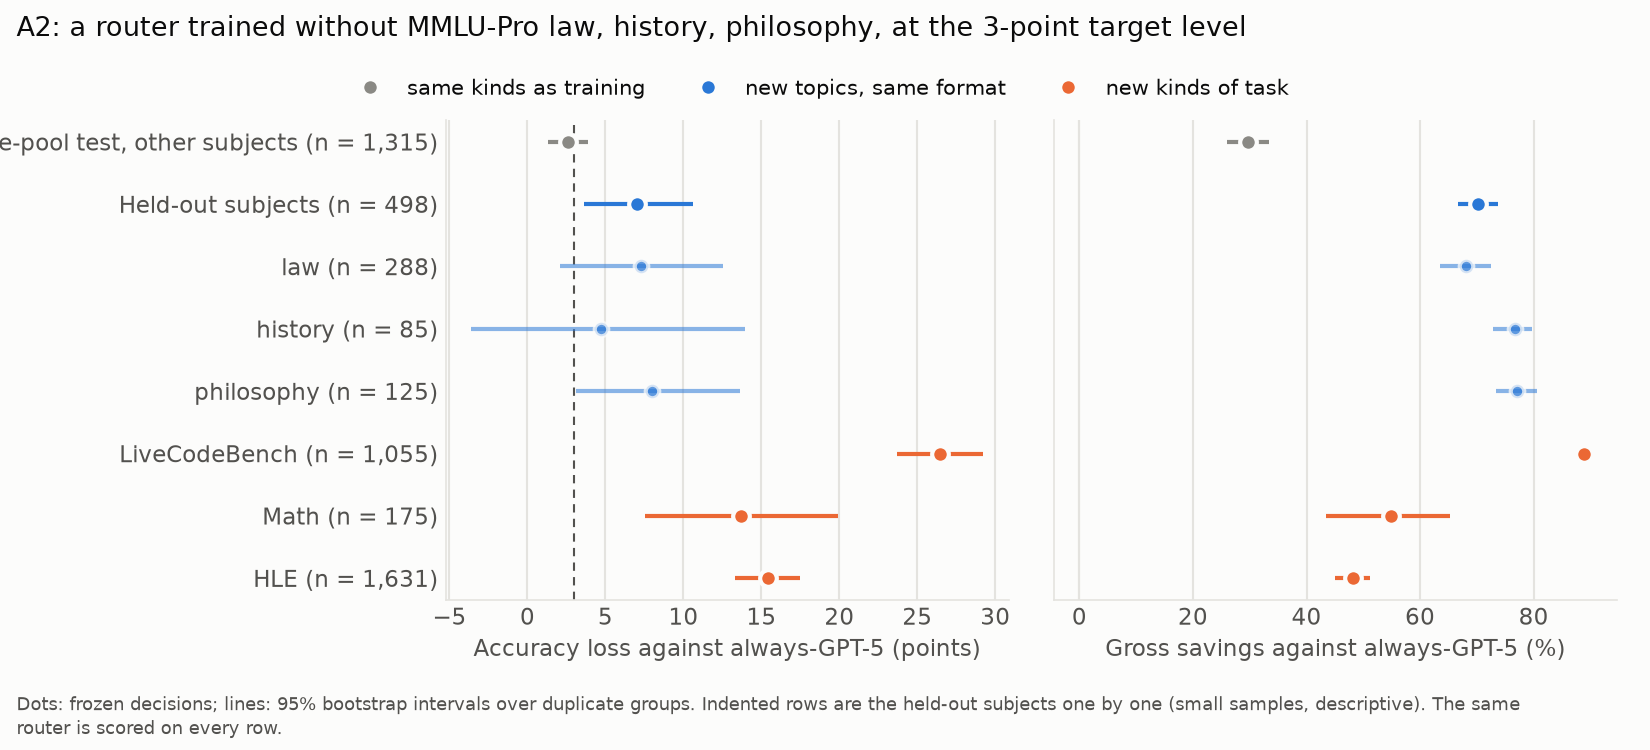
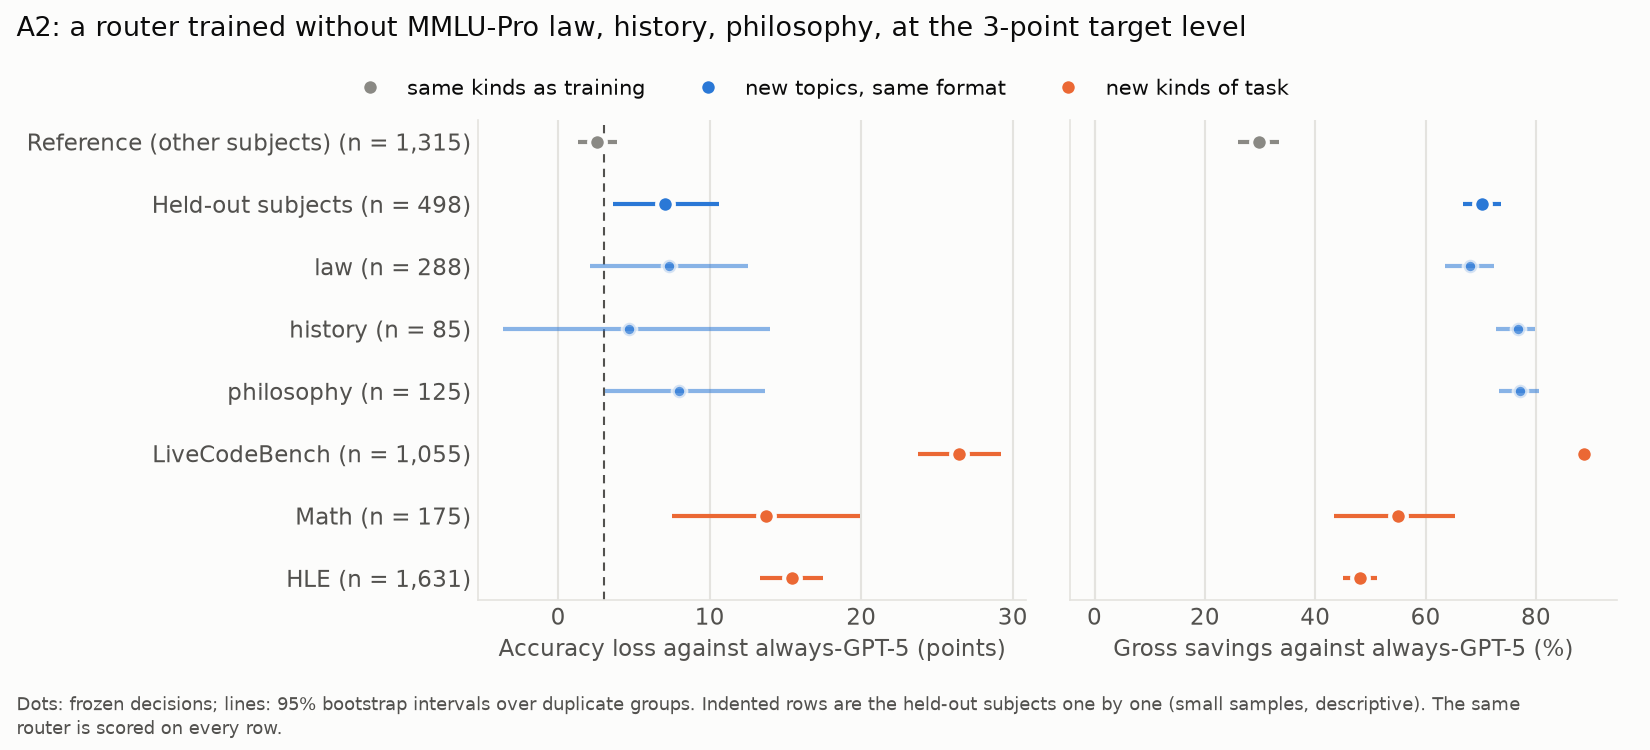
tighten rq2 write-up, fix figure labels

diff --git a/rq2/report_rq2.py b/rq2/report_rq2.py
@@ -45,7 +45,7 @@ SET_NAMES = {
     REF2: "Source-pool test without the held-out subjects (reference)" if not DRY else "Rehearsal reference without the stand-in subjects",
     "held_out_subjects": f"Held-out MMLU-Pro subjects ({SUBJ})",
 }
-SHORT = {**SET_NAMES, "source_pool_locked_test": "Source-pool test", REF2: "Source-pool test, other subjects" if not DRY else "Rehearsal reference",
+SHORT = {**SET_NAMES, "source_pool_locked_test": "Source-pool test", REF2: "Reference (other subjects)" if not DRY else "Rehearsal reference",
          "held_out_subjects": "Held-out subjects", "code": "LiveCodeBench", "math": "Math", "pseudo_reference": "Rehearsal reference",
          "gpqa_as_holdout": "GPQA (rehearsal)"}
 TAG = "DEVELOPMENT REHEARSAL, not a result" if DRY else ""
@@ -356,7 +356,7 @@ handles = [Line2D([], [], marker="o", ls="", ms=8, color=c, mec=SURFACE, mew=2, 
            ((NEUTRAL, "same kinds as training"), (BLUE, "new topics, same format"), (ORANGE, "new kinds of task"))]
 fig.legend(handles=handles, loc="upper left", bbox_to_anchor=(0.2, 0.92), ncol=3, frameon=False, fontsize=10)
 fig.suptitle(f"A2: a router trained without MMLU-Pro {SUBJ}, at the {PA}-point target level", x=0.01, ha="left", fontsize=13, color=INK)
-fig.subplots_adjust(left=0.27, right=0.98, top=0.84, bottom=0.2, wspace=0.08)
+fig.subplots_adjust(left=0.29, right=0.98, top=0.84, bottom=0.2, wspace=0.08)
 footer(fig, "Dots: frozen decisions; lines: 95% bootstrap intervals over duplicate groups. Indented rows are the held-out subjects one "
             "by one (small samples, descriptive). The same router is scored on every row.")
 fig.savefig(OUT / "fig3_rq2_near_far.png", dpi=150); plt.close(fig)

diff --git a/docs/RQ2_RESULTS.md b/docs/RQ2_RESULTS.md
@@ -29,18 +29,22 @@ statistics, settings chosen in the source-pool development run. The full tables 
     −0.03, while GPT-5's real edge on LiveCodeBench is 26 points, the largest of any set. So
     every coding question falls below even the 0-point cutoff.
   - *Order:* within each new set, the predicted gains do not pick out the questions only
-    GPT-5 gets right (AUC 0.49 coding, 0.53 math, 0.49 HLE, against 0.64 on the source test).
-    So even a cutoff re-tuned in hindsight on the coding questions' own answers would save
-    only 12.8% at the 3-point target.
+    GPT-5 gets right. The AUC is about 0.5, which is chance (0.49 coding, 0.53 math,
+    0.49 HLE). On HLE, 96% of within-benchmark shuffles were at least as accurate as the
+    router; on the source test at 3 points, only 0.2% were. So even a cutoff re-tuned in
+    hindsight on the coding questions' own answers would save only 12.8% at the 3-point
+    target.
 - **A router that had seen the benchmark does not fail this way.** On the same 211 coding
   test questions, the RQ1 router (trained with LiveCodeBench) sent none to Flash and lost
   nothing. The transfer router lost 27.49 points more (21.33 to 33.65).
-- **New topics (A2) hurt far less than new kinds of task, and part of it is not about the
-  topics being new.**
+- **New topics (A2) hurt too, but far less than new kinds of task.**
   - A router trained without MMLU-Pro law, history and philosophy lost 7.03 points (3.61 to
-    10.59) on those subjects at the 3-point target, against 26.45 on coding.
-  - A router that was trained with those subjects did no better on their 91 test questions
-    (3.30 points lost by each).
+    10.59) on those subjects at the 3-point target. That is 4.44 points more than on its
+    reference (0.76 to 8.22), and 19.42 fewer than on coding (14.95 to 23.71).
+  - Part of that loss may come from the mix rather than from the topics being new. GPT-5's
+    edge on these subjects is small, so a cutoff tuned on the source mix sends most of
+    them to Flash. A 91-question check against a router trained with them is too small to
+    separate the two explanations.
 - **Why coding goes to Flash** (a post-hoc check that reads prompts only):
   - In training, long prompts were mostly MMLU-Pro, where GPT-5's edge is small (6 points;
     median 127 words). SimpleQA's one-sentence questions carry an 18-point edge.
@@ -114,7 +118,7 @@ outcomes. It is not achievable without those labels and is never the router's re
 shows whether a miss comes from where the cutoff sits or from how the router orders the
 questions.
 
-| Set | Mean predicted gain | Real mean advantage | AUC, only-GPT-5-right questions | Frozen cutoff at 3 pp: sent / saved / lost | Hindsight cutoff at 3 pp: sent / saved / lost |
+| Set | Mean predicted gain | Real mean advantage | AUC, only-GPT-5-right questions (0.5 = chance) | Frozen cutoff at 3 pp: sent / saved / lost | Hindsight cutoff at 3 pp: sent / saved / lost |
 |---|---:|---:|---:|---:|---:|
 | Source-pool test | 0.138 | 0.146 | 0.643 | 39.9% / 28.9% / 2.42 | 46.2% / 35.2% / 2.99 |
 | LiveCodeBench | −0.034 | 0.264 | 0.493 | 100% / 88.8% / 26.45 | 10.4% / 12.8% / 2.94 |
@@ -126,10 +130,15 @@ questions.
 - **The level is wrong.** On coding the predicted gains lie between −0.047 and −0.014
   (5th to 95th percentile). All of that is below the 0-point cutoff of 0.011, so nothing
   stays on GPT-5. On math and HLE the predicted gains are also far below the real advantage.
-- **The order is uninformative.** An AUC of about 0.5 means the router cannot tell, within
-  coding, math or HLE, which questions need GPT-5. In the within-benchmark shuffle on HLE,
-  96% of random choices at the same rate were at least as accurate as the router's at
-  1 point. On the source test only 0.2% were, at 3 points.
+- **The order is uninformative.** An AUC of about 0.5 is what a random order gives, so
+  within coding, math or HLE the router cannot tell which questions need GPT-5.
+  - The like-for-like check is the within-benchmark shuffle. On HLE at 1 point, 96% of
+    within-benchmark shuffles were at least as accurate as the router; on the source test
+    at 3 points, only 0.2% were.
+  - On coding and math the shuffle says nothing, because everything went to Flash.
+  - The source test's AUC of 0.64 is pooled over three benchmarks, so part of it comes from
+    telling the benchmarks apart. It is not a like-for-like comparison with the
+    single-benchmark sets.
 - **Re-tuning the cutoff alone would not rescue it.** Even with hindsight, the best cutoff
   at 3 points saves 12.8% on coding, 14.4% on math and 13.1% on HLE, against 35.2% on the
   source test. Those hindsight figures are optimistic, because the cutoff is fitted to the
@@ -200,17 +209,19 @@ Differences at 3 points (independent bootstrap, each set resampled on its own):
 
 - **New kinds of task fail far worse than new topics.** That difference, about 19 points,
   is the clearest A2 result.
-- **The held-out subjects lose more than the reference, but the cause is unclear.**
-  - The router's average predicted gain on them (0.073) matches their real average
-    advantage (0.080), so the level is about right. But GPT-5's edge on these subjects is
-    small (8 points, against 15 on the reference), so most of them fall below a cutoff
-    tuned on the source mix. 89% went to Flash, and with a weak order (AUC 0.54) that costs
-    about 7 points.
-  - A router that *was* trained with these subjects also sent most of their 91 test
-    questions to Flash (82%, against 91% for the A2 router). The two lost the same, 3.30
-    points each (difference 0.00, −4.44 to 4.44).
-  - So the evidence that an unseen topic hurts in itself is weak. The loss reflects how
-    the subjects' small GPT-5 edge interacts with a cutoff tuned on a different mix.
+- **The held-out subjects lose 4.44 points more than the reference (0.76 to 8.22).** This is
+  the declared comparison, and its interval excludes zero. New topics do cost accuracy,
+  though far less than new kinds of task.
+  - Part of the loss may come from the mix rather than from the topics being new. The
+    router's average predicted gain on these subjects (0.073) is close to their real
+    average advantage (0.080), so its level is about right. But GPT-5's edge on them is
+    small (8 points, against 15 on the reference), so most fall below a cutoff tuned on the
+    source mix. 89% went to Flash, and with a weak order (AUC 0.54) that costs about
+    7 points.
+  - The descriptive check on the subjects' 91 test questions cannot separate the two
+    explanations. A router trained with these subjects also sent most of them to Flash
+    (82%, against 91% for the A2 router), and both lost 3.30 points. But the interval for
+    the difference (−4.44 to 4.44) is too wide to tell anything.
 - **By subject** (descriptive; history has 85 questions), at 3 points:
   - law: 7.29 points lost (2.09 to 12.54);
   - history: 4.71 (−3.61 to 13.95);
@@ -239,6 +250,10 @@ Differences at 3 points (independent bootstrap, each set resampled on its own):
   chosen on development questions that include the held-out subjects. None of this touches
   the transfer router's training questions or its cutoffs (protocol section 8, "What was
   known").
+- **The 3-point choice does not drive the coding result.** The primary level was chosen
+  after RQ1's results. But on LiveCodeBench the router's decisions are identical at every
+  level from 0 to 5 points (all to Flash), so any level would have given the same
+  conclusion.
 - **One router family.** Only logistic regression was evaluated. The text encoder, which
   reads text differently, was not tested for transfer.
 - **Small samples.** Math (175 questions) and the single subjects are small; their results

diff --git a/results/rq2/logistic/report/tables.md b/results/rq2/logistic/report/tables.md
@@ -131,11 +131,11 @@ The hindsight cutoff is the one the protocol's rule would choose on the set's ow
 | A | HLE | 2 pp | 34.5% / 76.2% | 44.4% / 14.90 | 12.0%, 9.1% / 1.96 |
 | A | HLE | 3 pp | 39.3% / 79.5% | 46.3% / 15.14 | 18.5%, 13.1% / 2.94 |
 | A | HLE | 5 pp | 58.9% / 90.1% | 52.7% / 16.80 | 27.5%, 18.5% / 4.97 |
-| A2 | Source-pool test, other subjects | 0 pp | 10.0% / 11.8% | 6.6% / 0.91 | 2.6%, 1.6% / 0.00 |
-| A2 | Source-pool test, other subjects | 1 pp | 25.4% / 27.5% | 17.8% / 1.83 | 17.6%, 10.2% / 0.99 |
-| A2 | Source-pool test, other subjects | 2 pp | 33.3% / 34.6% | 24.3% / 2.36 | 31.6%, 21.6% / 1.98 |
-| A2 | Source-pool test, other subjects | 3 pp | 41.1% / 40.5% | 29.8% / 2.59 | 43.3%, 32.1% / 2.97 |
-| A2 | Source-pool test, other subjects | 5 pp | 60.5% / 59.1% | 49.3% / 6.08 | 52.6%, 42.9% / 4.94 |
+| A2 | Reference (other subjects) | 0 pp | 10.0% / 11.8% | 6.6% / 0.91 | 2.6%, 1.6% / 0.00 |
+| A2 | Reference (other subjects) | 1 pp | 25.4% / 27.5% | 17.8% / 1.83 | 17.6%, 10.2% / 0.99 |
+| A2 | Reference (other subjects) | 2 pp | 33.3% / 34.6% | 24.3% / 2.36 | 31.6%, 21.6% / 1.98 |
+| A2 | Reference (other subjects) | 3 pp | 41.1% / 40.5% | 29.8% / 2.59 | 43.3%, 32.1% / 2.97 |
+| A2 | Reference (other subjects) | 5 pp | 60.5% / 59.1% | 49.3% / 6.08 | 52.6%, 42.9% / 4.94 |
 | A2 | Held-out subjects | 0 pp | 10.0% / 22.9% | 11.8% / 0.60 | 18.1%, 9.2% / 0.00 |
 | A2 | Held-out subjects | 1 pp | 25.4% / 60.6% | 43.5% / 5.82 | 25.1%, 14.0% / 0.80 |
 | A2 | Held-out subjects | 2 pp | 33.3% / 77.3% | 58.8% / 5.62 | 34.7%, 21.3% / 1.81 |
@@ -193,12 +193,12 @@ Differences between sets for the A2 router (independent bootstrap, each set resa
 
 | Comparison | Target level | Savings difference (95% CI) | Loss difference, pp (95% CI) |
 |---|---|---:|---:|
-| Held-out subjects minus Source-pool test, other subjects | 0 pp | +5.2 (1.9 to 8.9) | -0.31 (-2.13 to 1.37) |
+| Held-out subjects minus Reference (other subjects) | 0 pp | +5.2 (1.9 to 8.9) | -0.31 (-2.13 to 1.37) |
 |  | 1 pp | +25.6 (19.7 to 31.1) | +4.00 (0.86 to 7.00) |
 |  | 2 pp | +34.5 (29.0 to 39.7) | +3.27 (-0.35 to 6.77) |
 |  | 3 pp | +40.5 (35.6 to 45.5) | +4.44 (0.76 to 8.22) |
 |  | 5 pp | +31.1 (27.1 to 35.2) | +1.95 (-2.11 to 6.26) |
-| LiveCodeBench minus Source-pool test, other subjects | 0 pp | +82.2 (79.7 to 84.3) | +25.53 (22.71 to 28.55) |
+| LiveCodeBench minus Reference (other subjects) | 0 pp | +82.2 (79.7 to 84.3) | +25.53 (22.71 to 28.55) |
 |  | 1 pp | +71.0 (67.7 to 74.1) | +24.62 (21.62 to 27.68) |
 |  | 2 pp | +64.5 (61.1 to 67.9) | +24.09 (21.19 to 27.16) |
 |  | 3 pp | +59.0 (55.2 to 62.8) | +23.86 (20.93 to 27.09) |

diff --git a/docs/PROTOCOL.md b/docs/PROTOCOL.md
@@ -731,6 +731,8 @@ entry 19). RQ2 workstreams A and A2 were designed (section 8, log entry 23) and 
     labelled as such: (a) `rq2/posthoc_prompt_statistics.py`, which refits A's router,
     reproducing every recorded gain, then recomputes the gains with the prompt statistics held
     at their training averages, reading only prompt text for the target sets; it also reports
-    GPT-5's edge and prompt length by source benchmark on the train split; (b) label-position
-    fixes in two figures of `rq2/report_rq2.py`, which change no number. Nothing about either
-    router, its cutoffs or the scored questions changed after the run.
+    GPT-5's edge and prompt length by source benchmark on the train split; (b) label fixes
+    in two figures of `rq2/report_rq2.py`, which change no number; (c) the docstring of
+    `scripts/07_final_eval.py`, which said RQ2's design was still being decided, now points
+    to `rq2/` (no code changed). Nothing about either router, its cutoffs or the scored
+    questions changed after the run.
